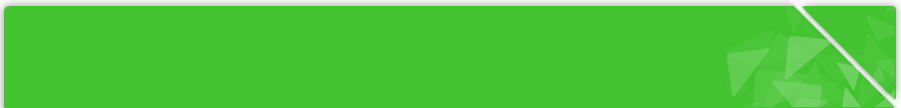
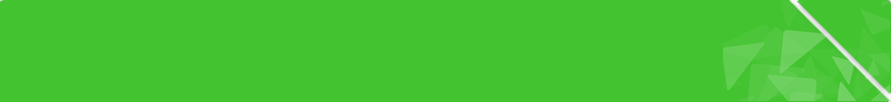
integrate left bar and replace top header

diff --git a/bug/bug/bug.css b/bug/bug/bug.css
@@ -6,8 +6,8 @@ body {
 
 .header {
     background: url('images/top-header.png') no-repeat top left;
-    height: 109px;
-    width: 904px;
+    height: 102px;
+    width: 891px;
 }
 
 .header .title {
@@ -17,7 +17,7 @@ body {
     font-size: 36px;
     display: inline-block;
     color: #FFF;
-    padding-top: 30px;
+    padding-top: 20px;
     padding-left: 40px;
 }
 
@@ -26,8 +26,8 @@ body {
     color: #FFF;
     width: 50%;
     font-size: 15px;
-    padding-top: 20px;
-    padding-left: 80px;
+    padding-top: 10px;
+    padding-left: 140px;
     font-weight: bold;
 }
 
@@ -43,7 +43,7 @@ body {
 .left {
     width: 255px;
     height: 100%;
-    background-color: #ebebeb;
+    background: url('images/background-left.png') repeat-y;
     font-family: helvetica, arial;
     font-size: 18px;
     font-weight: bold;
@@ -89,7 +89,7 @@ body {
 }
 
 .copyright {
-    padding: 100px 10px 0px 30px;
+    padding: 100px 30px 0px 20px;
     font-size: 8px;
     color: #29a1e0;
 }
